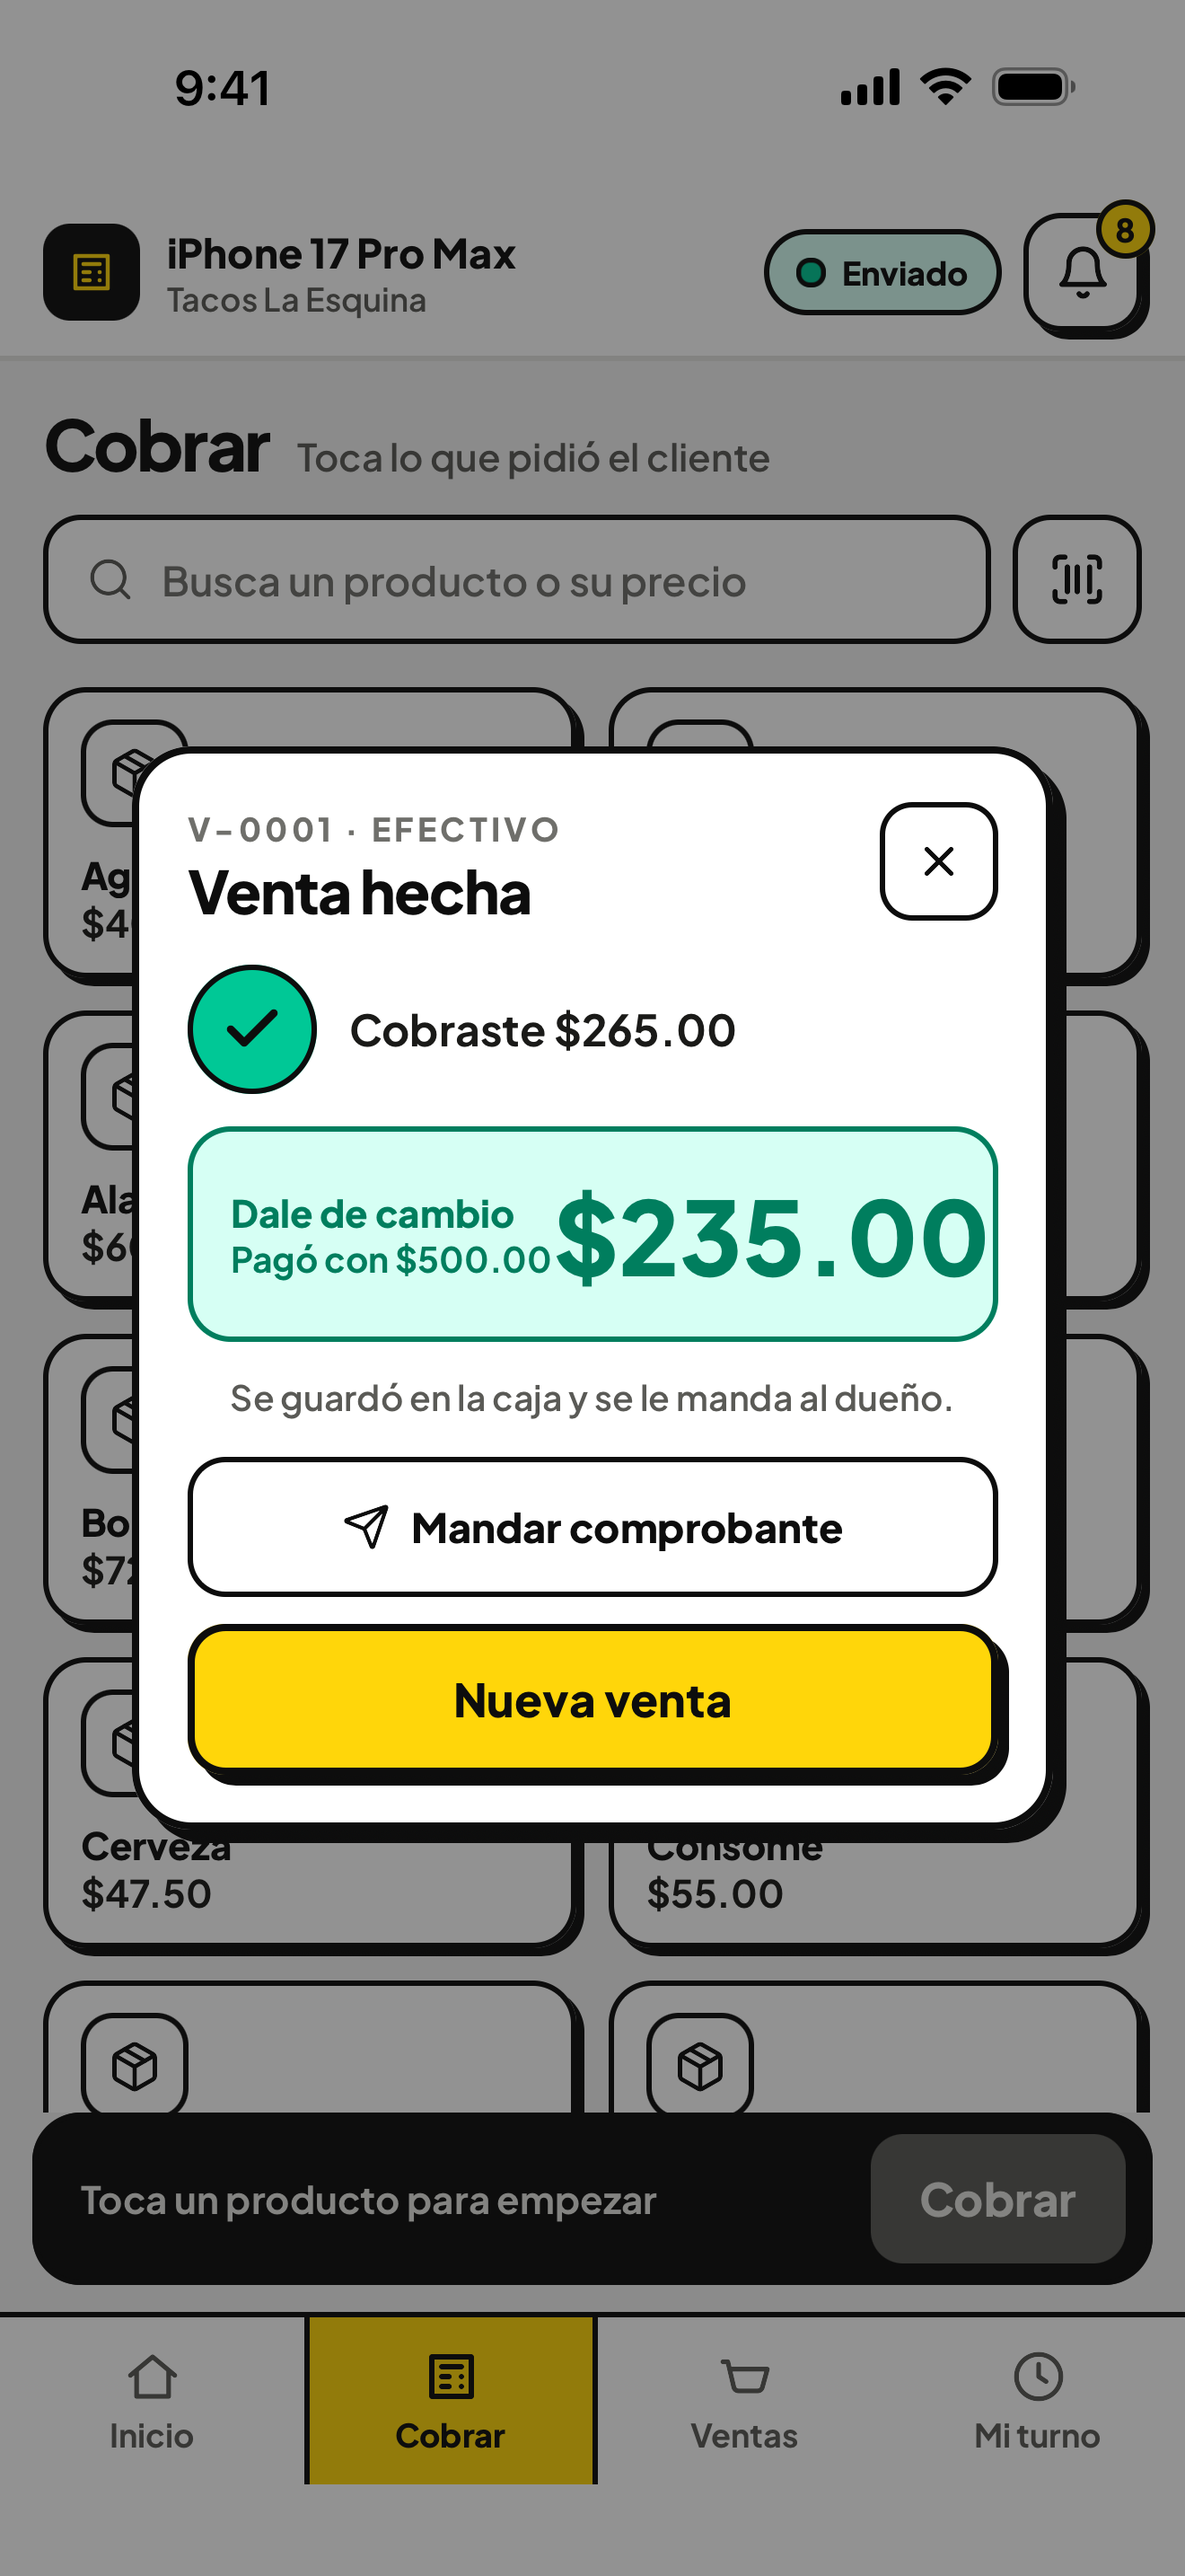
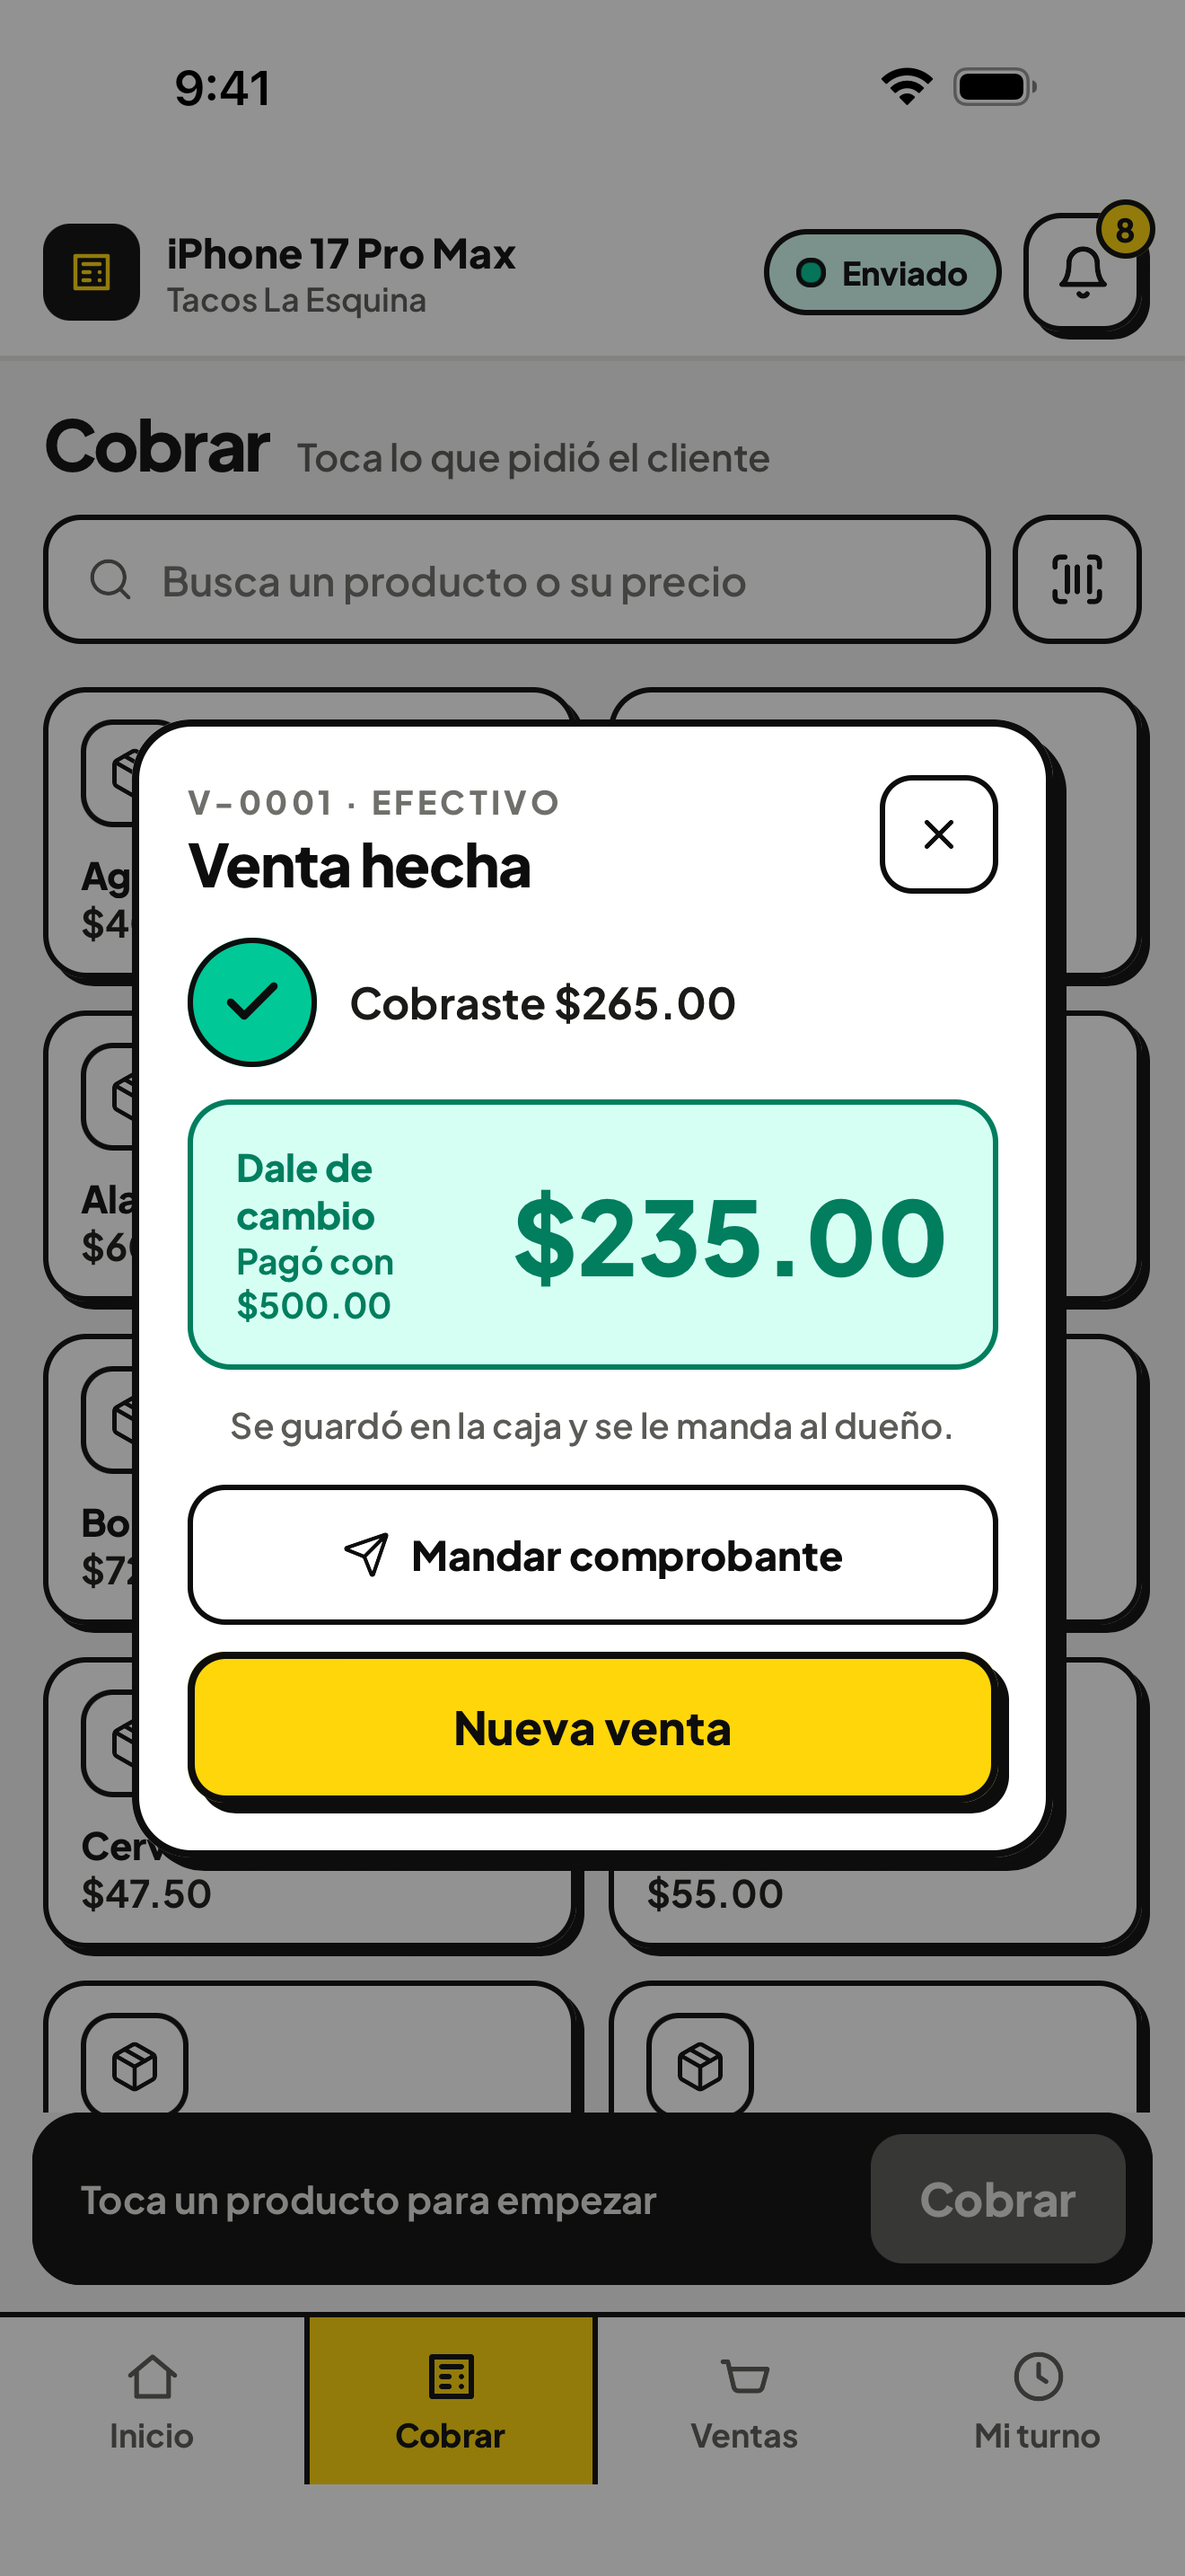
fix(ui): «Dale de cambio» keeps its amount inside the box; shot 05 again
In Plus Jakarta Sans the change amount ran into the box's right border and
touched «Pagó con …» on every store shot. Cifra now follows MvVentaHecha:
a 10 px gap, 14 × 16 padding, and the words on the left shrink and wrap
while the amount keeps its size on one line.

Shot 05 re-taken on all four sets. The store flow's search retry waits for
the list to settle before each check (an erased search briefly lists the
product being sought), and the Apple manifest says to run iOS with the
Android emulators off: under load the simulator keyboard drops letters.

Changed region(s): [[0.0932, 0.2793, 0.9008, 0.7448], [0.7144, 0.0, 0.9008, 0.0621]]

diff --git a/packages/ui/src/screens/Checkout/venta-hecha-dialog.tsx b/packages/ui/src/screens/Checkout/venta-hecha-dialog.tsx
@@ -25,25 +25,33 @@ export interface VentaHechaDialogProps {
   readonly onNueva: () => void;
 }
 
-function Cifra(p: {
-  label: string;
-  nota?: string;
-  monto: string;
-  tinta: string;
-  fondo: string;
-}): ReactElement {
+interface CifraProps {
+  readonly label: string;
+  readonly nota?: string;
+  readonly monto: string;
+  readonly tinta: string;
+  readonly fondo: string;
+}
+
+/**
+ * «Dale de cambio» / «Ahora debe» (MvVentaHecha): the words on the left give
+ * way and wrap; the amount the cashier hands over keeps its size.
+ */
+function Cifra(p: CifraProps): ReactElement {
   return (
     <View
       flexDirection="row"
       alignItems="center"
       justifyContent="space-between"
-      padding={14}
+      gap={10}
+      paddingVertical={14}
+      paddingHorizontal={16}
       borderRadius={radii[4]}
       borderWidth={borderWidths.thin}
       borderColor={p.tinta}
       backgroundColor={p.fondo}
     >
-      <View>
+      <View flexShrink={1}>
         <MText size="md" weight="extraBold" color={p.tinta}>
           {p.label}
         </MText>
@@ -53,7 +61,14 @@ function Cifra(p: {
           </MText>
         ) : null}
       </View>
-      <MText size="total" weight="extraBold" color={p.tinta} testID="venta-hecha-cifra">
+      <MText
+        size="total"
+        weight="extraBold"
+        color={p.tinta}
+        flexShrink={0}
+        numberOfLines={1}
+        testID="venta-hecha-cifra"
+      >
         {p.monto}
       </MText>
     </View>

diff --git a/app-registration/apple/SCREENSHOTS.md b/app-registration/apple/SCREENSHOTS.md
@@ -37,8 +37,6 @@ iPad, whose Cobrar shows every row); then three sales: cash with change (2 Alamb
   gastos, and the story records none, so its cifras read zero and the empty
   state's search badge peeks above the tab bar. Only «Renta local», the due
   recurrente, fills the screen.
-- **Venta hecha (05)**: in Plus Jakarta Sans «$235.00» runs into the
-  change box's right border and touches «Pagó con $500.00».
 - **The iPad's code boxes** show the typed code faintly behind the first box
   («VALDK7M3»): the hidden field's own text bleeds through (shot 01).
 
@@ -60,6 +58,8 @@ iPad, whose Cobrar shows every row); then three sales: cash with change (2 Alamb
    every device host port 7001: an Android run takes it from an iOS driver
    mid-flow, and an iOS driver left running (`xcodebuild test-without-building`)
    answers for the simulator it was started on, not the one passed to
-   `--device`. Stop leftover drivers before an iOS run.
+   `--device`. Stop leftover drivers before an iOS run, and shut the Android
+   emulators down first: on a loaded Mac the simulator keyboard drops letters
+   («jmai» for «jamaica») and the entradas fail.
 5. Look at every shot before copying it here: a capture can catch the
    Dynamic Island's momentary blob (`store-pausa.yaml` waits it out).

diff --git a/app-registration/google-play/SCREENSHOTS.md b/app-registration/google-play/SCREENSHOTS.md
@@ -38,8 +38,6 @@ the entrada sheet and the keyboard cover «Guardar».
 - **The phone's Inicio** leaves «Efectivo esperado» ($2,265.00) below the
   tab bar: 1920 px is shorter than an iPhone, and Plus Jakarta Sans sets the
   cards a little taller. Mi turno (08) shows the figure.
-- **Venta hecha (05)**: in Plus Jakarta Sans «$235.00» runs over the change
-  box's right border and touches «Pagó con $500.00»; worst on the phone.
 - **Gastos** shows no gasto: the story records none, so its cifras read zero.
 - The shots were taken from a debug build (the dev client), which draws
   exactly what a release build draws on these screens.
